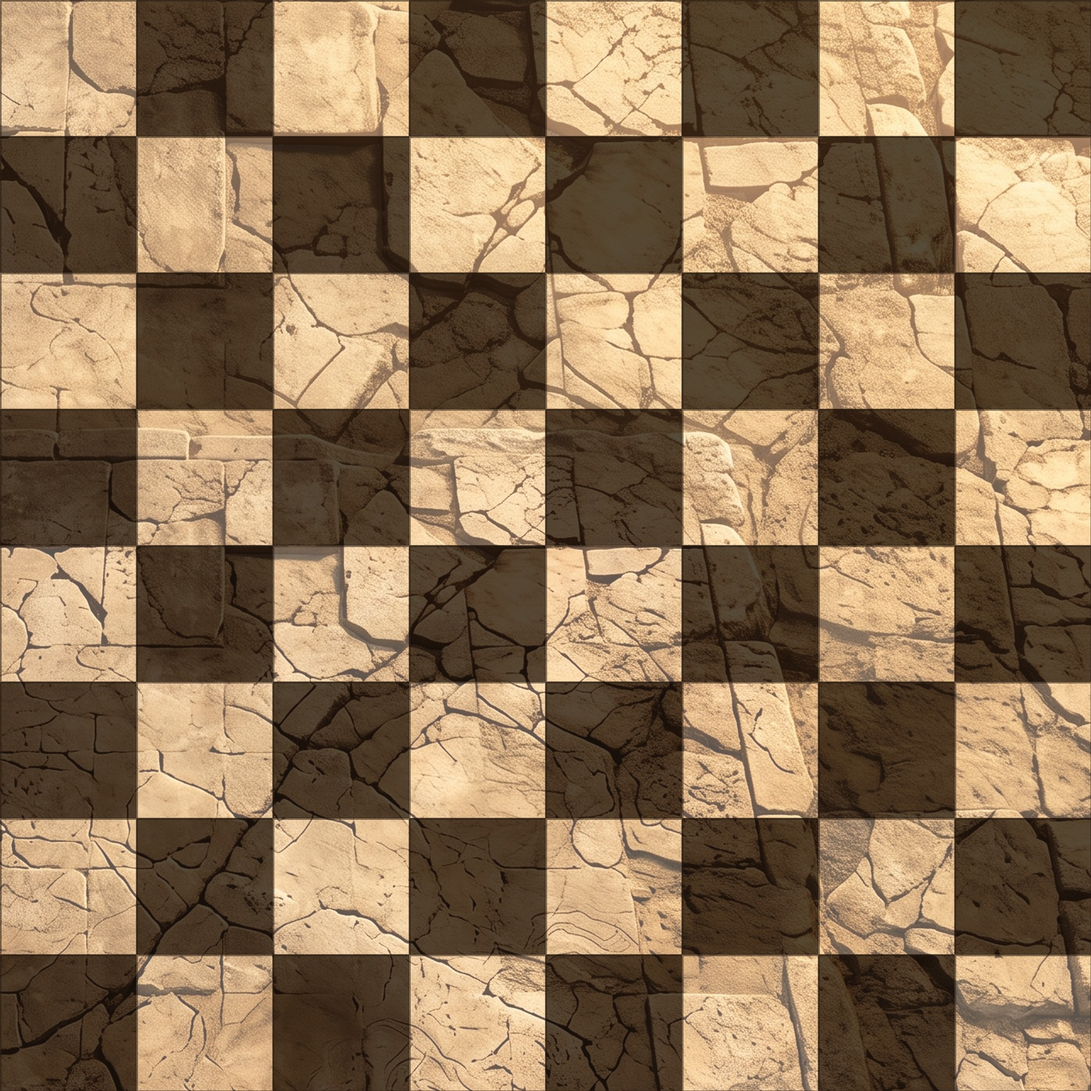
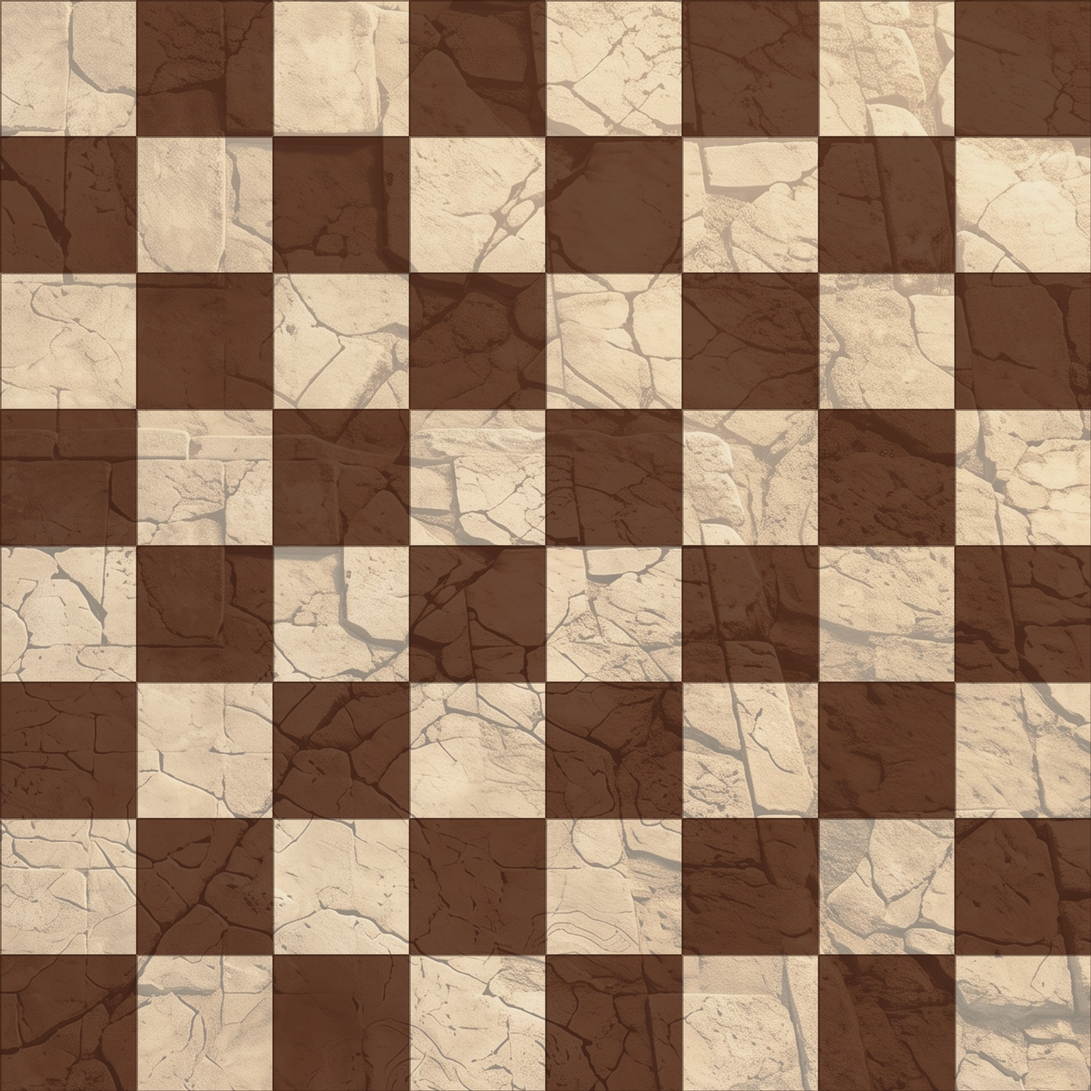
Dark squares are reddish brown, and the stone speaks quieter
Two corrections from looking at it with the pieces on:

The dark wash was near-neutral, which read as a shadow lying over sand
rather than as a darker stone. Now reddish brown -- mean RGB 94,59,40,
red above green above blue -- which is the colour burnt stone actually
reaches, and it answers the gold on the pieces instead of ignoring it.

And the photograph's own contrast is dialled down to 0.82 before the
veil. The texture has to be there without asserting itself; at full
strength the cracks pulled the eye the same way the painted boards did,
which was the whole reason for choosing stone over a painting.

5.5:1 between light and dark, from 6.0.

Claude-Session: https://claude.ai/code/session_0125ABX3ZmRsYVmnaD6p5Pwb

diff --git a/assets/board/README.md b/assets/board/README.md
@@ -73,10 +73,16 @@ Two measurements decided the crop:
   luminance between its left quarter and its right (the worst differed by 42).
   A gradient across the board reads as a shadow lying over the squares and
   competes with the checkerboard itself.
-- **6.0:1** between light and dark square. The stone is one colour throughout,
-  so the entire checker comes from the veil -- a dark near-neutral wash rather
-  than a second shade of sand, which would have invented a colour the photo
-  does not have.
+- **5.5:1** between light and dark square. The stone is one colour throughout,
+  so the entire checker comes from the veil. The dark wash is **reddish brown**
+  (mean RGB 94,59,40 -- R above G above B), not neutral grey: burnt stone is
+  actually that colour, and it answers the gold on the pieces. A neutral wash
+  read as a shadow lying on sand rather than as a darker stone.
+
+The photograph's own contrast is dialled DOWN before the veil goes on (0.82).
+The texture has to be present without asserting itself -- it is floor, not
+subject -- and at full strength the cracks were pulling the eye the way the
+painted boards did.
 
 It also happens to be the right floor for these pieces: a Spartan helm and a
 Greek meander belong on cracked ancient paving.
